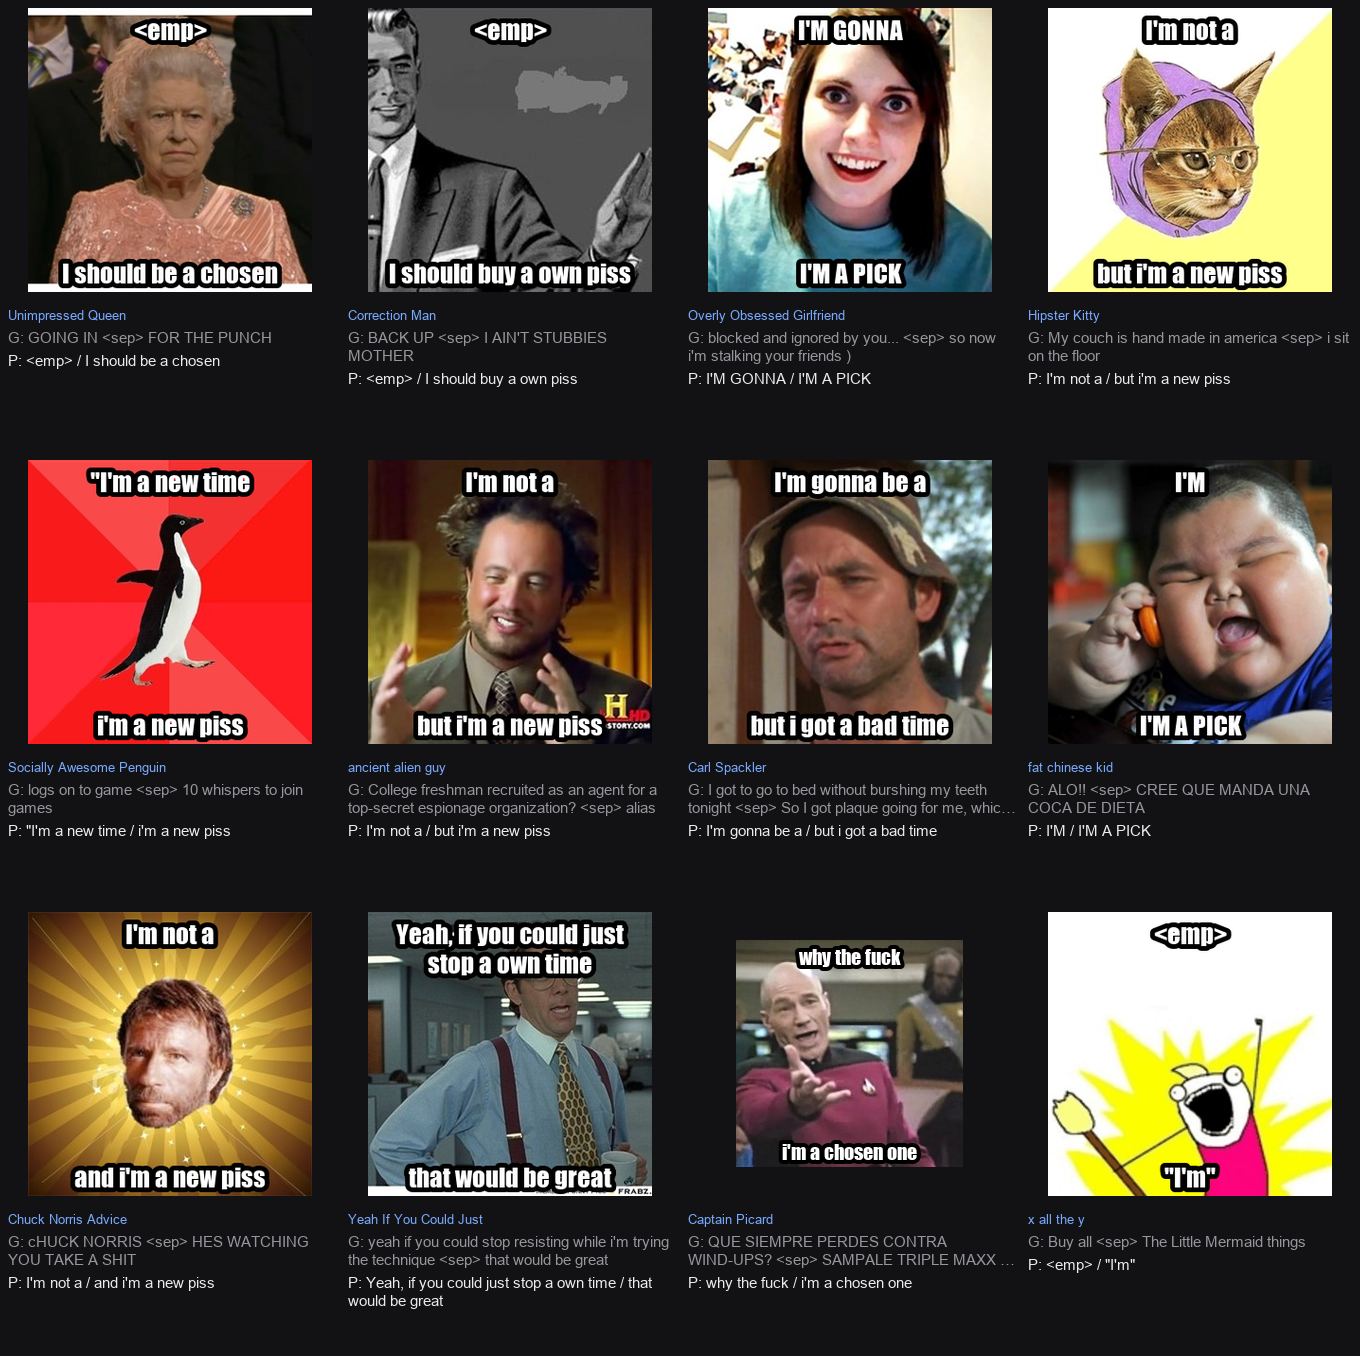
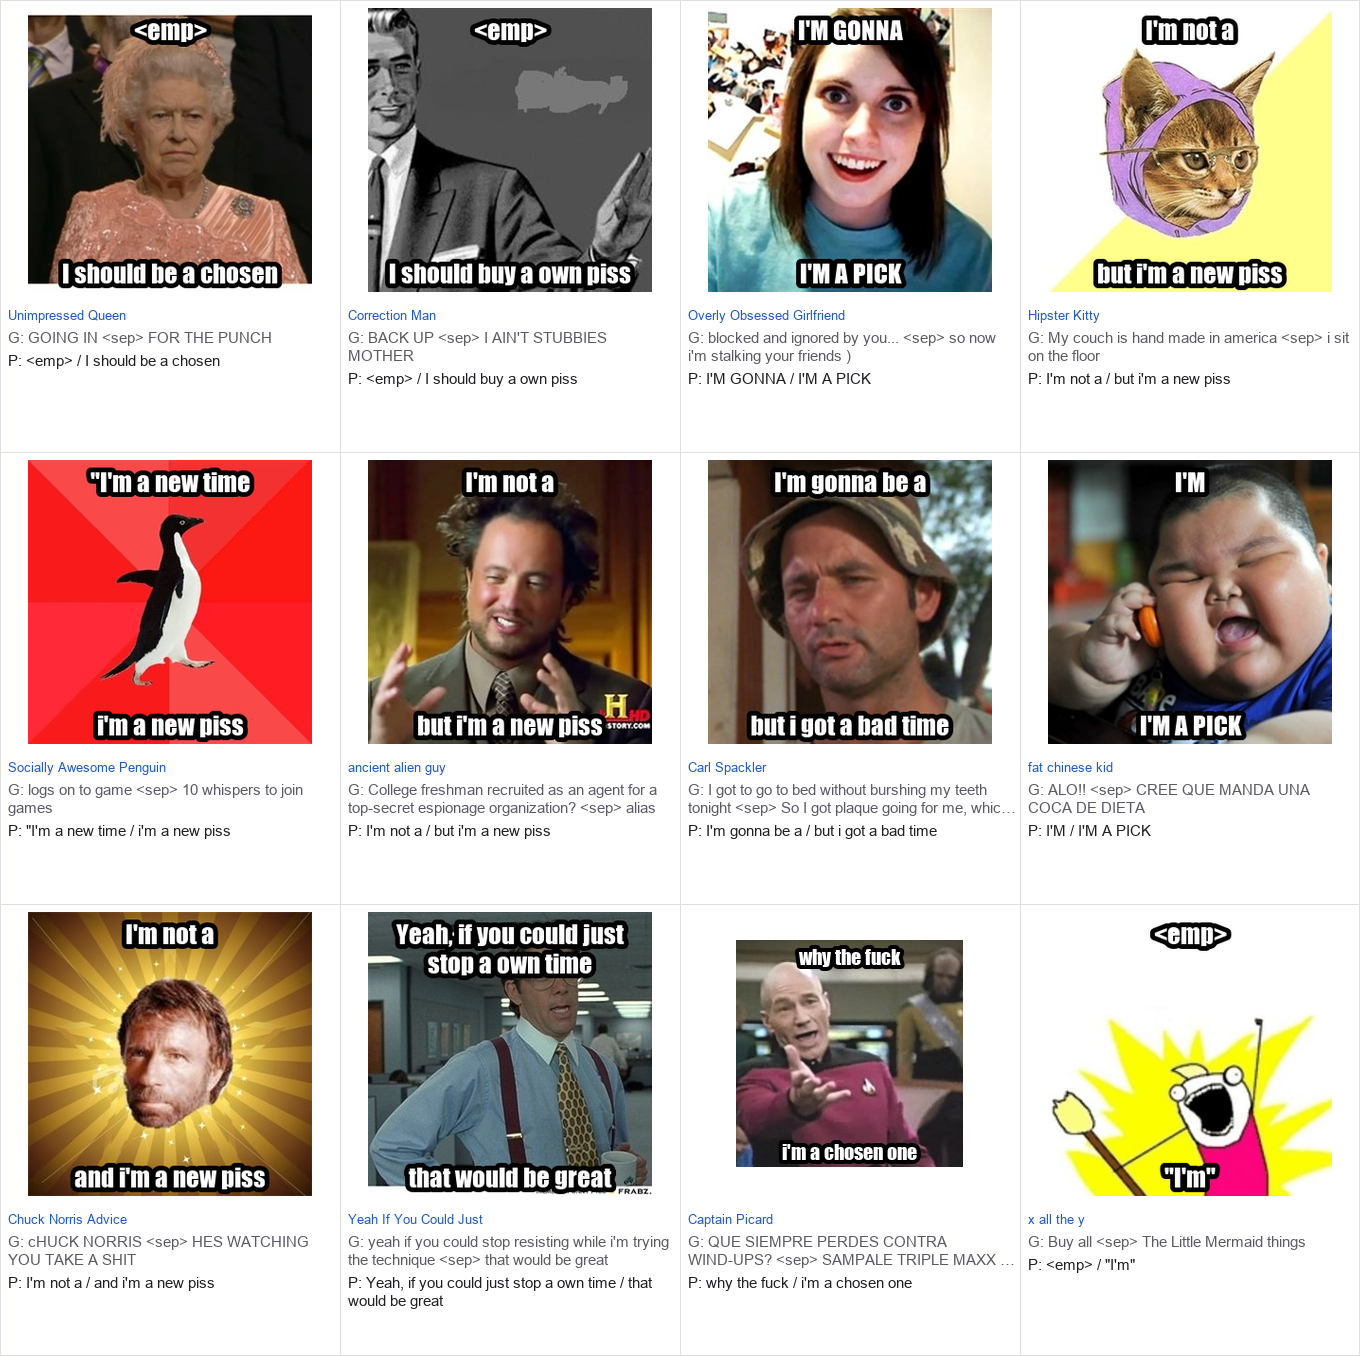
white galleries

diff --git a/showcase.py b/showcase.py
@@ -18,10 +18,11 @@ import caption
 
 DATA_IMAGES = Path(__file__).parent / "memes900k" / "images"
 CARD_W, CARD_H, IMG_H, PAD = 340, 452, 300, 8
-BG = (18, 18, 20)
-FG = (235, 235, 235)
-GOLD = (150, 150, 156)
-NAME = (120, 170, 255)
+BG = (255, 255, 255)
+FG = (30, 30, 35)
+GOLD = (90, 90, 100)
+NAME = (30, 90, 200)
+SEP = (222, 222, 228)
 
 BODY_FONTS = ("/System/Library/Fonts/Supplemental/Arial.ttf",
               "/System/Library/Fonts/Helvetica.ttc", "Arial.ttf")
@@ -106,9 +107,19 @@ def main():
     cards = [make_card(s) for s in chosen]
     cols = min(args.cols, len(cards))
     rows = (len(cards) + cols - 1) // cols
-    sheet = Image.new("RGB", (cols * CARD_W, rows * CARD_H), (0, 0, 0))
+    sheet = Image.new("RGB", (cols * CARD_W, rows * CARD_H), (255, 255, 255))
     for i, card in enumerate(cards):
         sheet.paste(card, ((i % cols) * CARD_W, (i // cols) * CARD_H))
+
+    # thin separators so white cards stay visually distinct
+    d = ImageDraw.Draw(sheet)
+    for c in range(1, cols):
+        x = c * CARD_W
+        d.line([(x, 0), (x, sheet.height)], fill=SEP, width=1)
+    for r in range(1, rows):
+        y = r * CARD_H
+        d.line([(0, y), (sheet.width, y)], fill=SEP, width=1)
+    d.rectangle([0, 0, sheet.width - 1, sheet.height - 1], outline=SEP, width=1)
 
     out = Path(args.out)
     out.parent.mkdir(parents=True, exist_ok=True)
